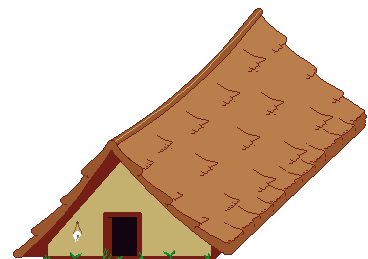
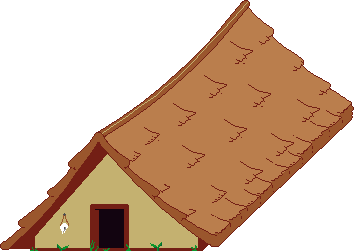
- Interior das construções mostrado apenas quando o jogador entra em um contorno definido - Atualização da arte do interior do hospital - Pequenos ajustes nas posições das construções e NPCs

diff --git a/src/Buildings/BuildingTypes.java b/src/Buildings/BuildingTypes.java
@@ -1,6 +1,7 @@
 package Buildings;
 
 import java.awt.Image;
+import java.awt.Polygon;
 
 import main.ImageLoader;
 import main.Log;
@@ -8,23 +9,29 @@ import main.Path;
 
 public enum BuildingTypes
 {
-	hospital(ImageLoader.loadImage(Path.BUILDINGS_IMG + "BuildingHospital.png"), ImageLoader.loadImage(Path.BUILDINGS_IMG + "BuildingHospitalInside.png")),
-	bank(ImageLoader.loadImage(Path.BUILDINGS_IMG + "BuildingBank.png"), ImageLoader.loadImage(Path.BUILDINGS_IMG + "BuildingBankInside.png")),
-	store(ImageLoader.loadImage(Path.BUILDINGS_IMG + "BuildingStore.png"), ImageLoader.loadImage(Path.BUILDINGS_IMG + "BuildingStoreInside.png")),
-	craft(ImageLoader.loadImage(Path.BUILDINGS_IMG + "BuildingCraft.png"), ImageLoader.loadImage(Path.BUILDINGS_IMG + "BuildingCraftInside.png"));
+	hospital("Hospital", new Polygon(new int[] {3, 161, 195, 195, 118, 82, 3, 3}, new int[] {193, 193, 159, 91, 1, 19, 120, 193}, 8)),
+	bank("Bank", new Polygon(new int[] {140, 205, 276, 315, 338, 345, 345, 293, 239, 194, 152, 107, 52, 0, 0, 7, 29, 68, 140}, new int[] {201, 201, 179, 156, 131, 113, 100, 41, 7, 0, 0, 7, 40, 99, 112, 130, 155, 178, 201}, 19)),
+	store("Store", new Polygon(new int[] {30, 202, 351, 240, 198, 154, 101, 30, 30}, new int[] {250, 250, 103, 9, 58, 96, 134, 228, 250}, 9)),
+	craft("Craft", new Polygon(new int[] {19, 228, 282, 239, 199, 199, 163, 110, 19, 19}, new int[] {228, 228, 172, 87, 87, 38, 2, 56, 154, 228}, 10));
 
 	private final Image exteriorImage ;
 	private final Image interiorImage ;
+	private final Polygon contour ;
 
-	private BuildingTypes(Image exteriorImage, Image interiorImage) // TODO remover args e manter constantes
+	private BuildingTypes(String name, Polygon contour)
 	{
+		Image exteriorImage = ImageLoader.loadImage(Path.BUILDINGS_IMG + "Building" + name + ".png") ;
+		Image interiorImage = ImageLoader.loadImage(Path.BUILDINGS_IMG + "Building" + name + "Inside.png") ;
+
 		if (exteriorImage == null) { Log.error("Building type with null exterior image") ;}
 		if (interiorImage == null) { Log.error("Building type with null interior image") ;}
 
 		this.exteriorImage = exteriorImage ;
 		this.interiorImage = interiorImage ;
+		this.contour = contour ;
 	}
 
-	public Image getExteriorImage() {return exteriorImage ;}
-	public Image getInteriorImage() {return interiorImage ;}
+	public Image getExteriorImage() { return exteriorImage ;}
+	public Image getInteriorImage() { return interiorImage ;}
+	public Polygon getContour() { return contour ;}
 }

diff --git a/src/Buildings/Building.java b/src/Buildings/Building.java
@@ -2,6 +2,7 @@ package Buildings ;
 
 import java.awt.Dimension;
 import java.awt.Point;
+import java.awt.Polygon;
 import java.util.ArrayList;
 import java.util.List;
 
@@ -26,6 +27,7 @@ import utilities.Util;
 public class Building implements Drawable
 {
 	private Point pos ;
+	private Polygon contour ;
 	private final BuildingTypes type ;
 	private final List<NPC> npcs ;
 	private final List<Point> npcOffsets ;
@@ -100,17 +102,31 @@ public class Building implements Drawable
 	public void setPos(Point pos)
 	{
 		this.pos = pos ;
+		
+		// Add offset for contour
+		Point topLeftPos = UtilAlignment.getTopLeft(pos, Align.center, Util.getSize(type.getExteriorImage())) ;
+		contour = new Polygon() ;
+		Polygon typeContour = type.getContour() ;
+		if (0 < typeContour.npoints)
+		{
+			int[] xpoints = new int[typeContour.npoints];
+			int[] ypoints = new int[typeContour.npoints];
+	
+			for (int i = 0; i <= typeContour.npoints - 1; i++)
+			{
+				xpoints[i] = topLeftPos.x + typeContour.xpoints[i];
+				ypoints[i] = topLeftPos.y + typeContour.ypoints[i];
+			}
+			contour = new Polygon(xpoints, ypoints, typeContour.npoints);
+		}
+
+		// Add offset for NPCs inside
 		for (int i = 0 ; i <= npcs.size() - 1 ; i += 1)
 		{
 			npcs.get(i).setPos(new Point((int) (pos.x + npcOffsets.get(i).x), (int) (pos.y + npcOffsets.get(i).y))) ;
 		}
 	}
-	
-	private boolean isInside(Point pos)
-	{
-		Point topLeftPos = UtilAlignment.getPosAt(this.pos, Align.center, Align.topLeft, Util.getSize(type.getExteriorImage())) ;
-		return Util.isInside(pos, topLeftPos, Util.getSize(type.getExteriorImage())) ;
-	}
+
 	public boolean hasNPCs() {return npcs != null && !npcs.isEmpty() ;}
 
 	public void displayNPCs(Hitbox playerHitbox)
@@ -122,9 +138,13 @@ public class Building implements Drawable
 
 	public void display(Hitbox playerHitbox, Point playerPos, int cityID)
 	{		
-		if (!isInside(playerPos))
+		if (!contour.contains(playerPos))
 		{
-			GamePanel.getDP().drawImage(type.getExteriorImage(), pos, Scale.unit, Align.center) ;			
+			GamePanel.getDP().drawImage(type.getExteriorImage(), pos, Scale.unit, Align.center) ;
+			if (Game.DEBUG_MODE)
+			{
+				GamePanel.getDP().drawPolyLine(contour.xpoints, contour.ypoints, Palette.colors[3]) ;
+			}
 			
 			return ;
 		}
@@ -136,6 +156,7 @@ public class Building implements Drawable
 		{
 			GamePanel.getDP().drawRect(collider.getPos(), Align.center, new Dimension(1, 1), Palette.colors[0], null) ;
 		}
+
 	}
 
 	public void display()

diff --git a/src/NPC/NPC.java b/src/NPC/NPC.java
@@ -228,7 +228,7 @@ public abstract class NPC implements Interactable
 		{
 			GamePanel.getDP().drawImage(desk, pos, Align.centerLeft);
 		}
-		GamePanel.getDP().drawText(Util.translate(pos, 0, -job.getImage().getHeight(null) - 20), Align.bottomCenter, name, Palette.colors[3]);
+		GamePanel.getDP().drawText(Util.translate(pos, 0, -job.getImage().getHeight(null) - 6), Align.bottomCenter, name, Palette.colors[3]);
 		
 		if (Game.DEBUG_MODE)
 		{

diff --git a/src/main/MainGame3_4.java b/src/main/MainGame3_4.java
@@ -6,12 +6,12 @@ import java.awt.EventQueue ;
  * made with love by Salevieno and Larissa
  * @author Salevieno
  * @author Larissa
- * @version 0.26
+ * @version 0.27
  * @since 2022
  */
 public class MainGame3_4
 {
-	private static final String version = "0.26" ;
+	private static final String version = "0.27" ;
 		
 	public static void main(String[] args)
 	{

diff --git a/src/screen/Sky.java b/src/screen/Sky.java
@@ -182,7 +182,7 @@ public class Sky
 	}
 	
 	public void display()
-	{ // new Point(0, HEIGHT), Align.bottomLeft, size, color, null
+	{
 		GamePanel.getDP().drawGradRoundRect(new Point(0, HEIGHT), Align.bottomLeft, size, botColor, topColor, false) ;
 		
 		if (isDay())
